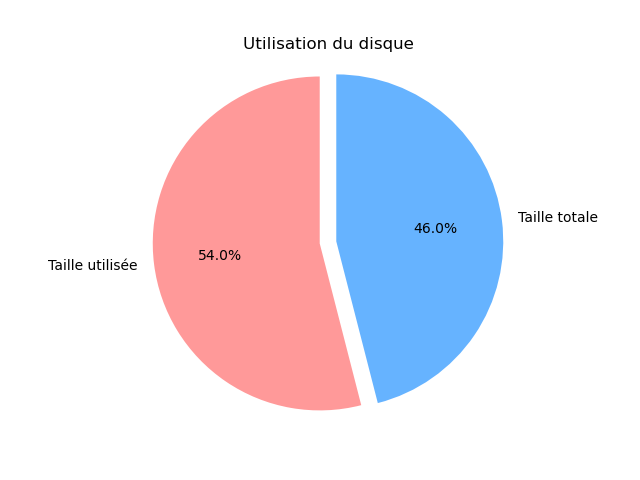
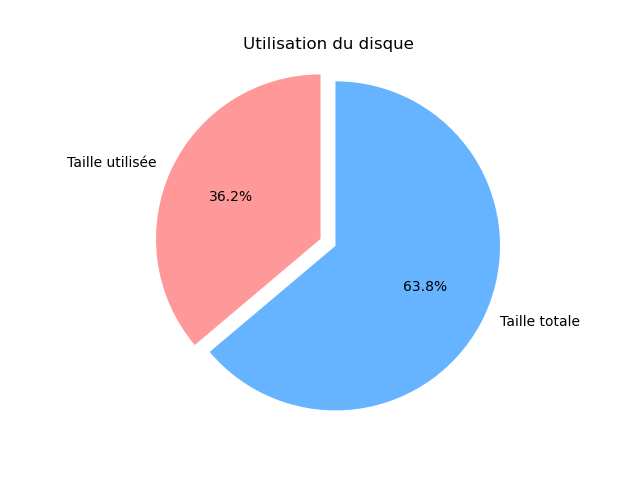
documentation du code dont explication des regex

diff --git a/html/compil-proc.html b/html/compil-proc.html
@@ -12,19 +12,34 @@
         </h1>
         </header>
         <body>
-        <h3>Information sur le processeur de la machine:</h3>  <p>CPU Type: Common KVM processor, Fréquence actuelle: 2893.202 MHz, Taille du cache: 16384 KB</p>
-        <h3>Information sur l'utilisation du disque de la machine :</h3><h4>Taille totale du disque :</h4><p> 32.0 Go</p><h4>Utilisation du disque :</h4> <p>17.28 Go</p>
-        <h3>Information sur l'OS de la machine :</h3><p> Version Linux: 6.1.0-12-amd64, Architecture: debian-kernel@lists.debian.org</p>
+        <h3>Information sur le processeur de la machine:</h3>  <p>CPU Type: Intel(R) Core(TM) i5-7400 CPU @ 3.00GHz, Fréquence actuelle: 2999.998 MHz, Taille du cache: 6144 KB</p>
+        <h3>Information sur l'utilisation du disque de la machine :</h3><h4>Taille totale du disque :</h4><p> 20.0 Go</p><h4>Utilisation du disque :</h4> <p>7.23 Go</p>
+        <h3>Information sur l'OS de la machine :</h3><p> Version Linux: 6.1.42-antix.1-amd64-smp, Architecture: anticap@antix1</p>
         <h3>Information sur la mémoire de la machine:</h3>
-        <h4>Mémoire totale :</h4> <p>3.82 Go</p>
-        <h4>Mémoire utilisée :</h4> <p>1611.39 Mo</p>
-        <h4>Mémoire libre :</h4> <p>2300.29 Mo</p>
+        <h4>Mémoire totale :</h4> <p>0.67 Go</p>
+        <h4>Mémoire utilisée :</h4> <p>628.97 Mo</p>
+        <h4>Mémoire libre :</h4> <p>57.11 Mo</p>
         <h3>Nom de(s) carte(s) réseau(x) de la machine :</h3> <p>eth0</p>
         <h3>Information sur le(s) carte(s) graphique(s) de la machine : </h3>
         <p>-----------------------------------------------------------------------------------------------------------------------------------------------------------------------------------</p>
-        <p> Nombre de processus actifs sur la machine : 149<p>
-        <p> Temps total depuis que le serveur est lancé : up 20 minutes<p>
-        <p> Ports UDP/TCP ouverts :  </p>
+        <p> Nombre de processus actifs sur la machine : 179<p>
+        <p> Temps total depuis que le serveur est lancé : up 16 minutes<p>
+        <p> Ports UDP/TCP ouverts : Connexions Internet actives (seulement serveurs)
+Proto Recv-Q Send-Q Adresse locale          Adresse distante        Etat       
+tcp        0      0 0.0.0.0:52669           0.0.0.0:*               LISTEN     
+tcp        0      0 127.0.0.1:631           0.0.0.0:*               LISTEN     
+tcp        0      0 0.0.0.0:111             0.0.0.0:*               LISTEN     
+tcp        0      0 0.0.0.0:22              0.0.0.0:*               LISTEN     
+tcp6       0      0 ::1:631                 :::*                    LISTEN     
+tcp6       0      0 :::6566                 :::*                    LISTEN     
+tcp6       0      0 :::111                  :::*                    LISTEN     
+tcp6       0      0 :::56381                :::*                    LISTEN     
+tcp6       0      0 :::22                   :::*                    LISTEN     
+udp        0      0 0.0.0.0:111             0.0.0.0:*                          
+udp        0      0 0.0.0.0:47847           0.0.0.0:*                          
+udp        0      0 127.0.0.1:761           0.0.0.0:*                          
+udp6       0      0 :::111                  :::*                               
+udp6       0      0 :::39822                :::* </p>
         <p>-----------------------------------------------------------------------------------------------------------------------------------------------------------------------------------</p>
         <p> Graphique camembert représentant l'utilisation de la mémoire actuelle : <p>
         <img src="../sae15proc/plots/camembert_memoire.png">

diff --git a/sae15proc/cartes_reseaux.py b/sae15proc/cartes_reseaux.py
@@ -19,7 +19,7 @@ def obtenir_interfaces_reseau(chemin_fichier):
     
     .. code-block:: python
      
-     interfaces_reseau = obtenir_interfaces_reseau("/proc/net/dev)
+     interfaces_reseau = obtenir_interfaces_reseau("/proc/net/dev")
 
     """
     interfaces = []
@@ -27,10 +27,10 @@ def obtenir_interfaces_reseau(chemin_fichier):
         with open(chemin_fichier,'r') as f:
             network_info = f.read()
 
-        interfaces_match = re.findall(r'(\w+):\s+\d+', network_info)
+        interfaces_match = re.findall(r'(\w+):\s+\d+', network_info) #recherche dans l'entree brute un pattern qui commence par un texte suivi de deux points, un espace et des chiffres
 
         for interface in interfaces_match:
-            if interface != 'lo':
+            if interface != 'lo': #exclusion de la loopback, qui nee nous interesse pas ici
                 interfaces.append(interface)
 
     except FileNotFoundError:

diff --git a/tests/cartes_reseaux.py b/tests/cartes_reseaux.py
@@ -19,3 +19,5 @@ def obtenir_interfaces_reseau():
         print(f"Une erreur s'est produite : {str(e)}")
 
     return interfaces
+
+print(obtenir_interfaces_reseau())
